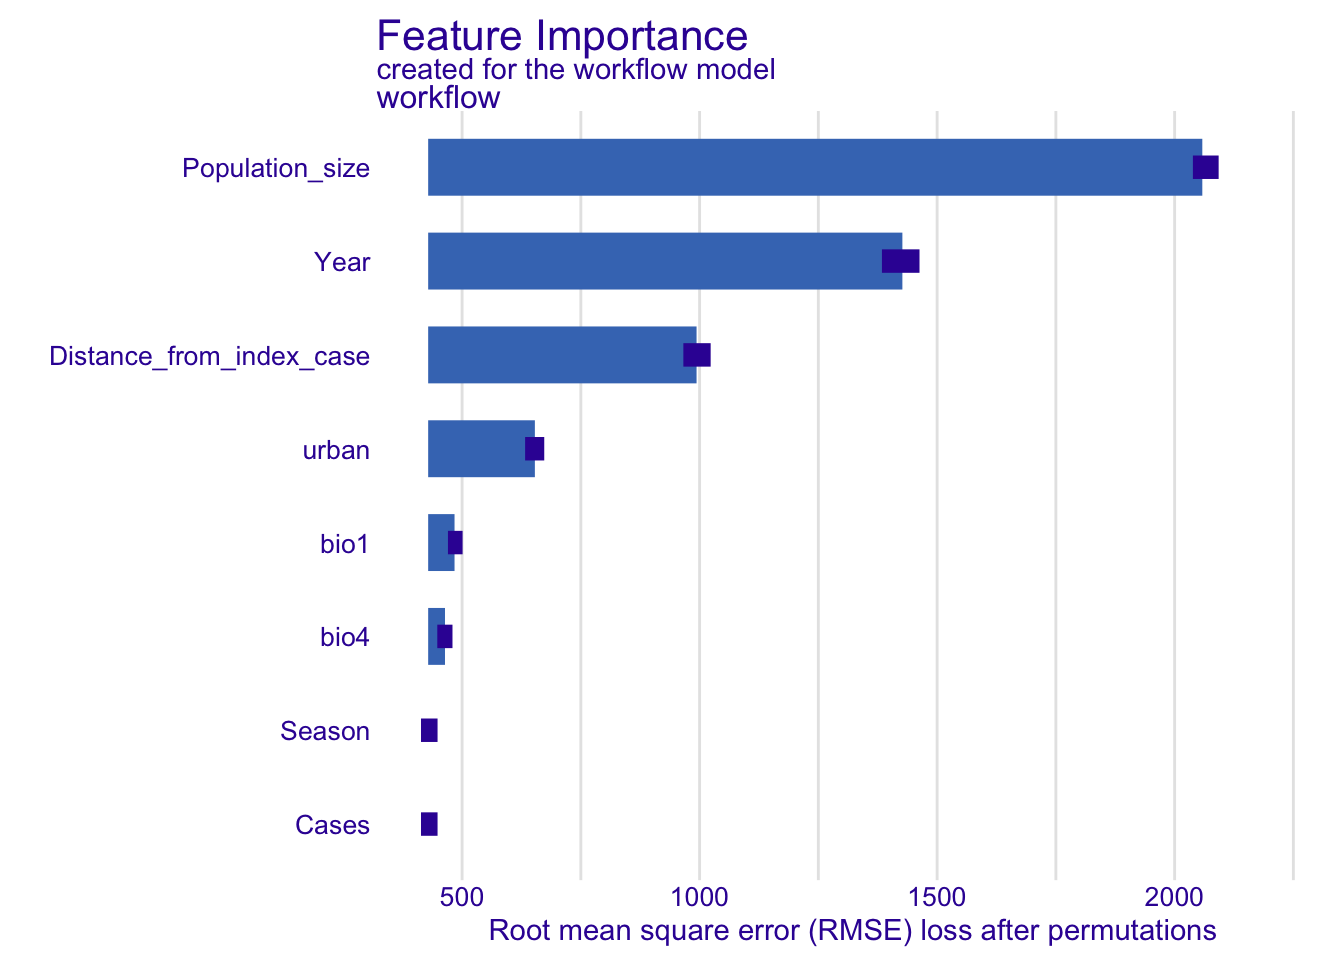
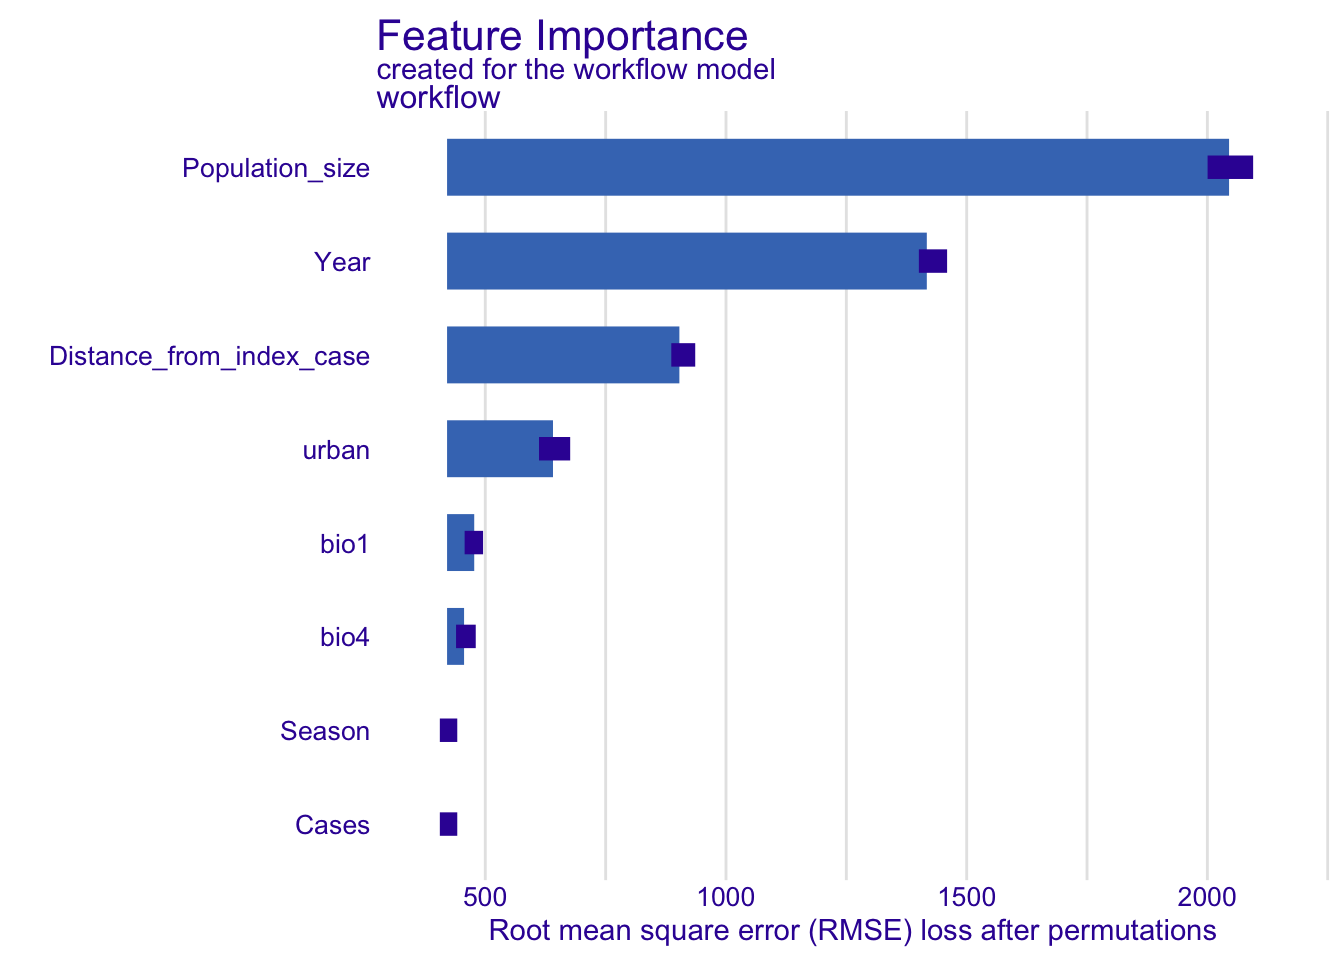
Edits to preliminary results report

diff --git a/Scripts/preliminary_results_report.html b/Scripts/preliminary_results_report.html
@@ -56,7 +56,27 @@ div.sourceCode
 @media screen {
 pre > code.sourceCode > span > a:first-child::before { text-decoration: underline; }
 }
-</style>
+/* CSS for citations */
+div.csl-bib-body { }
+div.csl-entry {
+  clear: both;
+  margin-bottom: 0em;
+}
+.hanging-indent div.csl-entry {
+  margin-left:2em;
+  text-indent:-2em;
+}
+div.csl-left-margin {
+  min-width:2em;
+  float:left;
+}
+div.csl-right-inline {
+  margin-left:2em;
+  padding-left:1em;
+}
+div.csl-indent {
+  margin-left: 2em;
+}</style>
 
 
 <script src="preliminary_results_report_files/libs/clipboard/clipboard.min.js"></script>
@@ -125,11 +145,11 @@ pre > code.sourceCode > span > a:first-child::before { text-decoration: underlin
 
 <section id="what-is-this-all-about" class="level1">
 <h1>1. What is this all about?</h1>
-<p>These are process-explicit models of the MG outbreak in house finches using the <code>epizootic</code> package, which I created for modeling wildlife disease outbreaks. This is a powerful tool for understanding processes and spatially-explicit disease dynamics. However, we must keep in mind the following limitations:</p>
+<p>These are process-explicit models <span class="citation" data-cites="Pilowsky2022-ng">(<a href="#ref-Pilowsky2022-ng" role="doc-biblioref">Pilowsky et al. 2022</a>)</span> of the MG outbreak in house finches using <a href="https://cran.r-project.org/web//packages/epizootic/vignettes/mycoplasma.html">the <code>epizootic</code> package</a>, which I created for modeling wildlife disease outbreaks. This is a powerful tool for understanding processes and spatially-explicit disease dynamics, because unlike other approaches, it can give spatiotemporally explicit values for population size, new infections, and other key metrics. It can also be used to infer uncertain and unobserved parameters, such as the number of house finches in the founder population in New York. However, we must keep in mind the following limitations:</p>
 <ul>
 <li>The models are only as good as the validation data.</li>
-<li>The models assume that the characteristics of <em>Mycoplasma gallisepticum</em> do not change over time, which we know to be false.</li>
-<li>The models assume that there are no regional differences in the characteristics of <em>M. gallisepticum</em> or house finches, which we also know to be false.</li>
+<li>The models assume that the characteristics of <em>Mycoplasma gallisepticum</em> do not change over time, which we know to be false <span class="citation" data-cites="Fleming-Davies2018-ak">(<a href="#ref-Fleming-Davies2018-ak" role="doc-biblioref">Fleming-Davies et al. 2018</a>)</span>.</li>
+<li>The models assume that there are no regional differences in the characteristics of <em>M. gallisepticum</em> or house finches, which we also know to be false <span class="citation" data-cites="Dhondt2006-cz">(<a href="#ref-Dhondt2006-cz" role="doc-biblioref">Dhondt et al. 2006</a>)</span>.</li>
 </ul>
 </section>
 <section id="the-validation-data" class="level1">
@@ -137,7 +157,7 @@ pre > code.sourceCode > span > a:first-child::before { text-decoration: underlin
 <p>We used the following data for model validation:</p>
 <ul>
 <li><strong>Are there finches in Washington DC in 1994?</strong> This is crucial because this is the time and place where the Mycoplasma gallisepticum outbreak first occurred. If there are no finches there, there can’t be an outbreak. The subsequent metrics are conditioned on whether the simulation meets this criterion. All simulations that fail are excluded.</li>
-<li><strong>Mycoplasma presence.</strong> There are 90 locations where Project FeederWatch spotted infected finches every year for years on end. This score measures whether the simulations can replicate that persistence. A lower score indicates a better ability to replicate persistence.</li>
+<li><strong>Mycoplasma presence.</strong> There are 90 locations where Project FeederWatch spotted infected finches every year for years on end (median: 16 consecutive years). This score measures whether the simulations can replicate that persistence. A lower score indicates a better ability to replicate persistence.</li>
 <li><strong>First arrival of <em>Haemorhous</em>.</strong> I estimated the first arrival of the house finch in parts of its invasive range based on sightings from the Breeding Bird Survey, with uncertainty due to incomplete observation. I assigned a penalty for the simulated date of first arrival falling outside the estimated range. I have these estimates for 14,850 locations.</li>
 </ul>
 <p>It is important to note that I started out with more validation data than this. I narrowed down to these metrics using <code>abctools::selectsumm</code>, which picks validation metrics from a set based on which ones parsimoniously inform the posterior distribution the most. This means I can justifiably try out other validation data if it seems like there are problems with the selected metrics.</p>
@@ -170,8 +190,8 @@ pre > code.sourceCode > span > a:first-child::before { text-decoration: underlin
 </div>
 </div>
 </div>
-<p>There were 10,000 simulations in each round of modeling, so performance on this metric did not monotonically improve.</p>
-<p>Now we will examine the other two validation metrics, which are only calculated for simulations that had finches in DC in 1994.</p>
+<p>There were 10,000 simulations in each round of modeling, so performance on this metric did not monotonically improve. This is more or less expected; I could not use this metric for validation by Approximate Bayesian Computation (ABC) because it is binary, so it was used as a pre-filter for ABC, so ABC could not optimize for it.</p>
+<p>Now we will examine the other two validation metrics, <em>Mycoplasma</em> presence and first arrival of <em>Haemorhous</em>, which are only calculated for simulations that had finches in DC in 1994.</p>
 <div class="cell">
 <details class="code-fold">
 <summary>Code</summary>
@@ -200,7 +220,7 @@ pre > code.sourceCode > span > a:first-child::before { text-decoration: underlin
 </div>
 </div>
 </div>
-<p>Lower values are better for both, so there’s improvement on both metrics, though first arrival of <em>Haemorhous</em> is still pretty far off from zero, the perfect score.</p>
+<p>Lower values are better for both, so there’s improvement on both metrics as we proceed through rounds 1, 2 and 3. However, first arrival of <em>Haemorhous</em> is still pretty far off from zero, the perfect score. We decided to stop modeling at this stage because the Bayes factors indicated that the posterior distributions had stabliized, and posterior predictive checks showed that the predictive power of the models could improve no further, at least with these validation metrics. The fact that first arrival of <em>Haemorhous</em> remained far from zero indicates that there is something about the assumptions of the model that makes it impossible to accurately recreate the first arrival of house finches to various regions.</p>
 <p>At this point, what I did was take the top 1% of models from round 3 based on these three validation metrics, and then created a weighted ensemble mean of these simulations. I will refer to this as the validated ensemble model.</p>
 </section>
 <section id="visualizing-the-validated-ensemble-model" class="level1">
@@ -236,7 +256,7 @@ pre > code.sourceCode > span > a:first-child::before { text-decoration: underlin
 </div>
 </div>
 </div>
-<p>We can see here the effect of the outbreak on population size, which is likely too dramatic to be realistic based on my understanding. It is important to note that I did not use finch trends in population size as validation metrics, so there was nothing selecting for correct population size trends.</p>
+<p>We can see here the effect of the outbreak on population size. According to the literature, the MG outbreak roughly halved population densities of house finches <span class="citation" data-cites="Hochachka2021-dp">(<a href="#ref-Hochachka2021-dp" role="doc-biblioref">Hochachka et al. 2021</a>)</span>, and in this animation, the population seems to decline by more than half after the arrival of MG. It is important to note that I did not use finch trends in population size as validation metrics, so there was nothing selecting for correct population size trends. As noted above, I chose validation metrics based on which combination of metrics informed the posterior distributions the most. I could try running the simulations again using validation metrics chosen a different way.</p>
 </section>
 <section id="b.-prevalence" class="level2">
 <h2 class="anchored" data-anchor-id="b.-prevalence">3b. Prevalence</h2>
@@ -256,7 +276,7 @@ pre > code.sourceCode > span > a:first-child::before { text-decoration: underlin
 </div>
 </div>
 </div>
-<p>The prevalence definitely gets too high to be realistic in this simulation. The validation metric that could control for this is spatiotemporal point prevalence, based on data points on prevalence in the literature, which I did not use here.</p>
+<p>The prevalence definitely gets too high to be realistic in this simulation; it is rare for a deadly outbreak like this one to reach 100% prevalence, let alone over such a large geographical extent. The validation metric that could control for this is spatiotemporal point prevalence, based on data points on prevalence in the literature, which I did not use here. As mentioned above, I chose my validation metrics based on which subset of them most informed the posterior distributions, but I could try re-running the simulations using validation metrics chosen a different way.</p>
 </section>
 </section>
 <section id="urbanization-analysis" class="level1">
@@ -360,30 +380,14 @@ pre > code.sourceCode > span > a:first-child::before { text-decoration: underlin
 <pre><code># A tibble: 2 × 4
   .metric .estimator .estimate .config        
   &lt;chr&gt;   &lt;chr&gt;          &lt;dbl&gt; &lt;chr&gt;          
-1 rmse    standard     421.    pre0_mod0_post0
+1 rmse    standard     431.    pre0_mod0_post0
 2 rsq     standard       0.868 pre0_mod0_post0</code></pre>
 </div>
 <details class="code-fold">
 <summary>Code</summary>
 <div class="sourceCode cell-code" id="cb7"><pre class="sourceCode r code-with-copy"><code class="sourceCode r"><span id="cb7-1"><a href="#cb7-1" aria-hidden="true" tabindex="-1"></a><span class="co"># Visualize</span></span>
-<span id="cb7-2"><a href="#cb7-2" aria-hidden="true" tabindex="-1"></a>urb_explainer <span class="ot">&lt;-</span> <span class="fu">explain_tidymodels</span>(final_fit_urb<span class="sc">$</span>.workflow[[<span class="dv">1</span>]], <span class="at">y =</span> urb_test<span class="sc">$</span>Cases, <span class="at">data =</span> urb_test <span class="sc">|&gt;</span> <span class="fu">select</span>(bio1, bio4, urban, Year, Distance_from_index_case, Season, Cases, Population_size))</span></code><button title="Copy to Clipboard" class="code-copy-button"><i class="bi"></i></button></pre></div>
-</details>
-<div class="cell-output cell-output-stdout">
-<pre><code>Preparation of a new explainer is initiated
-  -&gt; model label       :  workflow  (  default  )
-  -&gt; data              :  67557  rows  8  cols 
-  -&gt; target variable   :  67557  values 
-  -&gt; predict function  :  yhat.workflow  will be used (  default  )
-  -&gt; predicted values  :  No value for predict function target column. (  default  )
-  -&gt; model_info        :  package tidymodels , ver. 1.4.1 , task regression (  default  ) 
-  -&gt; predicted values  :  numerical, min =  -625.0715 , mean =  695.3568 , max =  6609.005  
-  -&gt; residual function :  difference between y and yhat (  default  )
-  -&gt; residuals         :  numerical, min =  -3780.545 , mean =  3.24236 , max =  4630.499  
-  A new explainer has been created!  </code></pre>
-</div>
-<details class="code-fold">
-<summary>Code</summary>
-<div class="sourceCode cell-code" id="cb9"><pre class="sourceCode r code-with-copy"><code class="sourceCode r"><span id="cb9-1"><a href="#cb9-1" aria-hidden="true" tabindex="-1"></a>urb_explainer <span class="sc">|&gt;</span> <span class="fu">variable_importance</span>() <span class="sc">|&gt;</span> <span class="fu">plot</span>()</span></code><button title="Copy to Clipboard" class="code-copy-button"><i class="bi"></i></button></pre></div>
+<span id="cb7-2"><a href="#cb7-2" aria-hidden="true" tabindex="-1"></a>urb_explainer <span class="ot">&lt;-</span> <span class="fu">explain_tidymodels</span>(final_fit_urb<span class="sc">$</span>.workflow[[<span class="dv">1</span>]], <span class="at">y =</span> urb_test<span class="sc">$</span>Cases, <span class="at">data =</span> urb_test <span class="sc">|&gt;</span> <span class="fu">select</span>(bio1, bio4, urban, Year, Distance_from_index_case, Season, Cases, Population_size), <span class="at">verbose =</span> <span class="cn">FALSE</span>)</span>
+<span id="cb7-3"><a href="#cb7-3" aria-hidden="true" tabindex="-1"></a>urb_explainer <span class="sc">|&gt;</span> <span class="fu">variable_importance</span>() <span class="sc">|&gt;</span> <span class="fu">plot</span>()</span></code><button title="Copy to Clipboard" class="code-copy-button"><i class="bi"></i></button></pre></div>
 </details>
 <div class="cell-output-display">
 <div>
@@ -394,9 +398,9 @@ pre > code.sourceCode > span > a:first-child::before { text-decoration: underlin
 </div>
 <details class="code-fold">
 <summary>Code</summary>
-<div class="sourceCode cell-code" id="cb10"><pre class="sourceCode r code-with-copy"><code class="sourceCode r"><span id="cb10-1"><a href="#cb10-1" aria-hidden="true" tabindex="-1"></a>urb_explainer <span class="sc">%&gt;%</span> </span>
-<span id="cb10-2"><a href="#cb10-2" aria-hidden="true" tabindex="-1"></a>  <span class="fu">model_profile</span>(<span class="at">variables =</span> <span class="st">"urban"</span>, <span class="at">N =</span> <span class="dv">2000</span>) <span class="sc">%&gt;%</span> </span>
-<span id="cb10-3"><a href="#cb10-3" aria-hidden="true" tabindex="-1"></a>  <span class="fu">plot</span>() <span class="sc">+</span> <span class="fu">ggtitle</span>(<span class="st">"Partial dependence profile for urbanization"</span>)</span></code><button title="Copy to Clipboard" class="code-copy-button"><i class="bi"></i></button></pre></div>
+<div class="sourceCode cell-code" id="cb8"><pre class="sourceCode r code-with-copy"><code class="sourceCode r"><span id="cb8-1"><a href="#cb8-1" aria-hidden="true" tabindex="-1"></a>urb_explainer <span class="sc">%&gt;%</span> </span>
+<span id="cb8-2"><a href="#cb8-2" aria-hidden="true" tabindex="-1"></a>  <span class="fu">model_profile</span>(<span class="at">variables =</span> <span class="st">"urban"</span>, <span class="at">N =</span> <span class="dv">2000</span>) <span class="sc">%&gt;%</span> </span>
+<span id="cb8-3"><a href="#cb8-3" aria-hidden="true" tabindex="-1"></a>  <span class="fu">plot</span>() <span class="sc">+</span> <span class="fu">ggtitle</span>(<span class="st">"Partial dependence profile for urbanization"</span>)</span></code><button title="Copy to Clipboard" class="code-copy-button"><i class="bi"></i></button></pre></div>
 </details>
 <div class="cell-output-display">
 <div>
@@ -407,9 +411,24 @@ pre > code.sourceCode > span > a:first-child::before { text-decoration: underlin
 </div>
 </div>
 <p>Intriguingly, urbanization is still a meaningful predictor of total MG cases even when we control for population size, which means that the effect of urbanization goes beyond simply increasing the finch population size. The partial dependence profile indicates that this is a threshold effect, in which having zero urbanized land cover is associated with lower cases, but any amount of urbanized land cover is associated with higher cases, and then the effect levels off.</p>
+<p>I would advise caution in taking the exact size of the effect to heart (which is shown in the partial dependence profile as an average increase of 350 cases per 46 km x 46 km grid cell as proportion of urban land goes above 0) due to the excessively high prevalence in the validated ensemble model.</p>
+
 </section>
 
-</main>
+<div id="quarto-appendix" class="default"><section class="quarto-appendix-contents" role="doc-bibliography" id="quarto-bibliography"><h2 class="anchored quarto-appendix-heading">References</h2><div id="refs" class="references csl-bib-body hanging-indent" data-entry-spacing="0" role="list">
+<div id="ref-Dhondt2006-cz" class="csl-entry" role="listitem">
+Dhondt, André A, Alexander V Badyaev, Andrew P Dobson, Dana M Hawley, Melanie J L Driscoll, Wesley M Hochachka, and David H Ley. 2006. <span>“Dynamics of Mycoplasmal Conjunctivitis in the Native and Introduced Range of the Host.”</span> <em>Ecohealth</em> 3 (2): 95–102.
+</div>
+<div id="ref-Fleming-Davies2018-ak" class="csl-entry" role="listitem">
+Fleming-Davies, Arietta E, Paul D Williams, André A Dhondt, Andrew P Dobson, Wesley M Hochachka, Ariel E Leon, David H Ley, Erik E Osnas, and Dana M Hawley. 2018. <span>“Incomplete Host Immunity Favors the Evolution of Virulence in an Emergent Pathogen.”</span> <em>Science</em> 359 (6379): 1030–33.
+</div>
+<div id="ref-Hochachka2021-dp" class="csl-entry" role="listitem">
+Hochachka, Wesley M, Andrew P Dobson, Dana M Hawley, and André A Dhondt. 2021. <span>“Host Population Dynamics in the Face of an Evolving Pathogen.”</span> <em>J. Anim. Ecol.</em> 90 (6): 1480–91.
+</div>
+<div id="ref-Pilowsky2022-ng" class="csl-entry" role="listitem">
+Pilowsky, July A, Robert K Colwell, Carsten Rahbek, and Damien A Fordham. 2022. <span>“Process-Explicit Models Reveal the Structure and Dynamics of Biodiversity Patterns.”</span> <em>Sci. Adv.</em> 8 (31): eabj2271.
+</div>
+</div></section></div></main>
 <!-- /main column -->
 <script id="quarto-html-after-body" type="application/javascript">
   window.document.addEventListener("DOMContentLoaded", function (event) {
